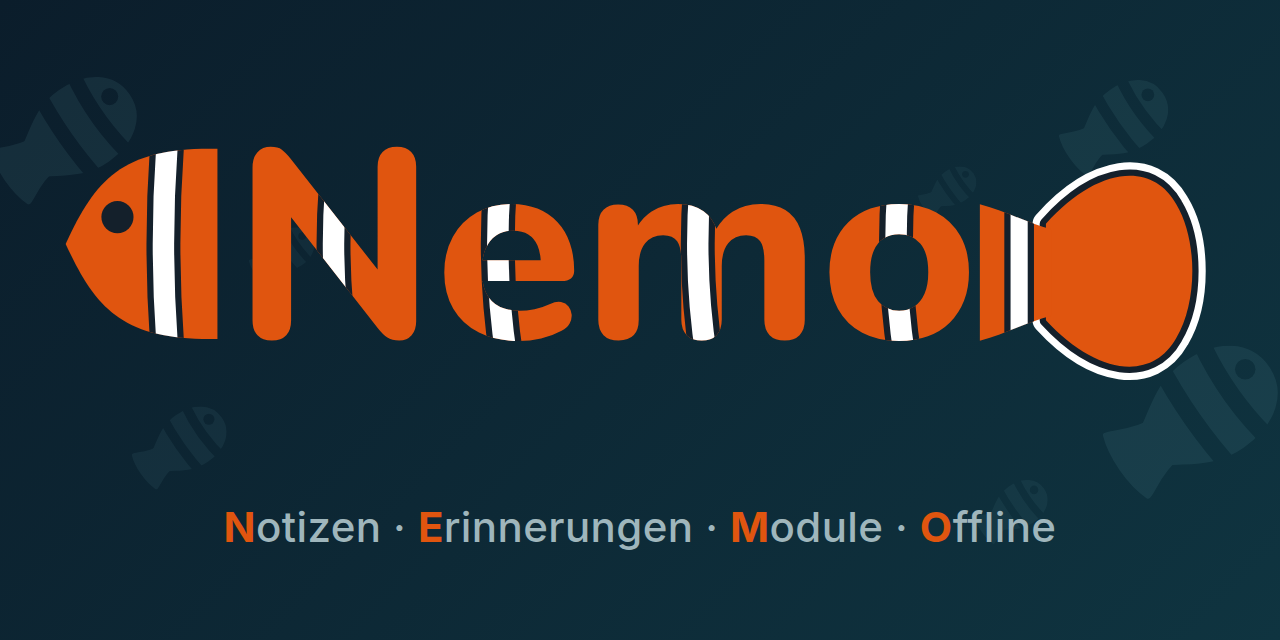
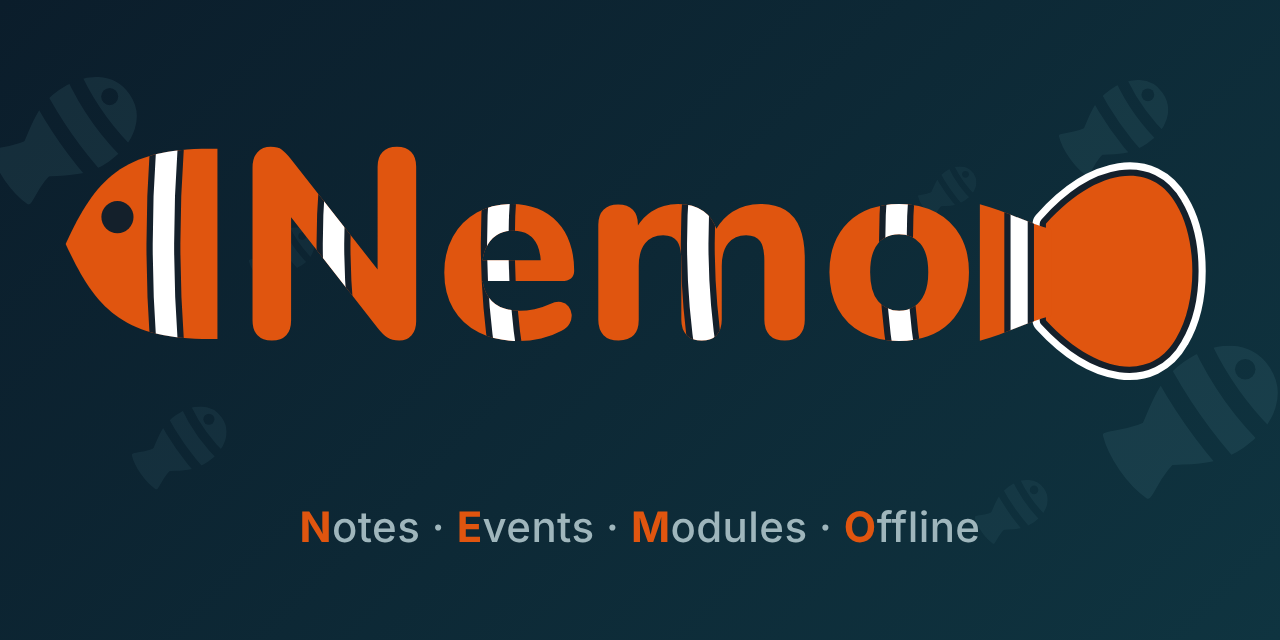
docs(brand): English claim on the README header and social preview
"Notes · Events · Modules · Offline" keeps the NEMO backronym. gen:icons renders
the English images under the existing names and German copies as *.de.png;
README.de.md and the German website OG image use the German ones.

Claude-Session: https://claude.ai/code/session_01HQsYPCi1e8sLvkvnigF1P1

Changed region(s): [[0.1562, 0.7812, 0.8438, 0.875]]

diff --git a/docs/MANUAL-TESTS.md b/docs/MANUAL-TESTS.md
@@ -124,7 +124,7 @@ N9. *Android-APK als Update über die bestehende Installation:* App-Name „Nemo
 N10. *Hell / Dunkel / System, Akzente, Design „Klar“:* Einstellungen → Darstellung: alle vier Akzente in beiden Themes; Karten mit Rahmen statt Schatten, Tabs als ruhige Pille, nur ein orangefarbener Hauptbutton je Seite; Titelleisten-Farbe (PWA/Browser) folgt der gewählten Darstellung. ☐
 N11. *Neues Clownfisch-Icon (Branch `design/app-icon`), Windows-Portable:* Taskleiste (hell/dunkel, 100–200 % Skalierung), Tray, Alt-Tab und Fenstertitel zeigen den geneigten Fisch auf der orangen Kachel, nicht unscharf bei 16/24/32 px. ☐
 N12. *Clownfisch-Icon, Android-APK als Update über die bestehende Installation:* Launcher-Icon (runde, eckige und Squircle-Maske: Fisch nicht abgeschnitten), Themed-Icon (Android 13+, einfarbig), Benachrichtigungs-Icon in der Statusleiste, Splash (hell/dunkel). Benachrichtigungs-Akzent ist jetzt `#E0550F`. ☐
-N13. *Clownfisch-Icon im Browser/PWA:* Favicon im Tab (hell/dunkel), „Zum Startbildschirm“ (maskierbares Icon), Sidebar/Topbar zeigen die Wortmarke (Nemo als Clownfisch), leere Zustände. README-Header „Nemo als Clownfisch“ + Claim „Notizen · Erinnerungen · Module · Offline“ auf GitHub in hell und dunkel, Social-Preview neu hochladen (`docs/brand/social-preview.png`). ☐
+N13. *Clownfisch-Icon im Browser/PWA:* Favicon im Tab (hell/dunkel), „Zum Startbildschirm“ (maskierbares Icon), Sidebar/Topbar zeigen die Wortmarke (Nemo als Clownfisch), leere Zustände. README-Header „Nemo als Clownfisch“ + Claim „Notes · Events · Modules · Offline“ (README.md) bzw. „Notizen · Erinnerungen · Module · Offline“ (README.de.md) auf GitHub in hell und dunkel, Social-Preview neu hochladen (`docs/brand/social-preview.png`). ☐
 N11. *Reduzierte Bewegung:* Systemeinstellung an → keine Seiten-/Listen-/Balken-Animation, Listen erscheinen sofort (kein Verzögern), Skeleton ohne Schimmer. ☐
 N12. *README auf GitHub im hellen und dunklen Modus:* Header-Bild und Dashboard-Screenshot wechseln mit (`<picture>`), Badges lesbar, beide Download-Buttons liefern die Dateien (erst nach dem Nemo-Kopien-Upload zu v0.2.0 bzw. dem nächsten stabilen Release). ☐
 N13. *Autostart (Windows):* Wenn Autostart in 0.2.0 aktiv war: nach dem Update prüfen, ob der Eintrag noch „Taschenmesser“ heißt und die App ihn als „aus“ anzeigt (siehe REVIEW M10). ☐

diff --git a/README.de.md b/README.de.md
@@ -2,8 +2,8 @@
 
 <p align="center">
   <picture>
-    <source media="(prefers-color-scheme: dark)" srcset="docs/brand/header.png">
-    <img src="docs/brand/header-light.png" alt="Nemo-Logo: der Schriftzug Nemo als Clownfisch mit Kopf, weißen Streifen und Schwanzflosse" width="640">
+    <source media="(prefers-color-scheme: dark)" srcset="docs/brand/header.de.png">
+    <img src="docs/brand/header-light.de.png" alt="Nemo-Logo: der Schriftzug Nemo als Clownfisch mit Kopf, weißen Streifen und Schwanzflosse, darunter Notizen · Erinnerungen · Module · Offline" width="640">
   </picture>
 </p>
 

diff --git a/README.md b/README.md
@@ -3,7 +3,7 @@
 <p align="center">
   <picture>
     <source media="(prefers-color-scheme: dark)" srcset="docs/brand/header.png">
-    <img src="docs/brand/header-light.png" alt="Nemo logo: the word Nemo drawn as a clownfish with head, white stripes and tail fin" width="640">
+    <img src="docs/brand/header-light.png" alt="Nemo logo: the word Nemo drawn as a clownfish with head, white stripes and tail fin, below it Notes · Events · Modules · Offline" width="640">
   </picture>
 </p>
 
